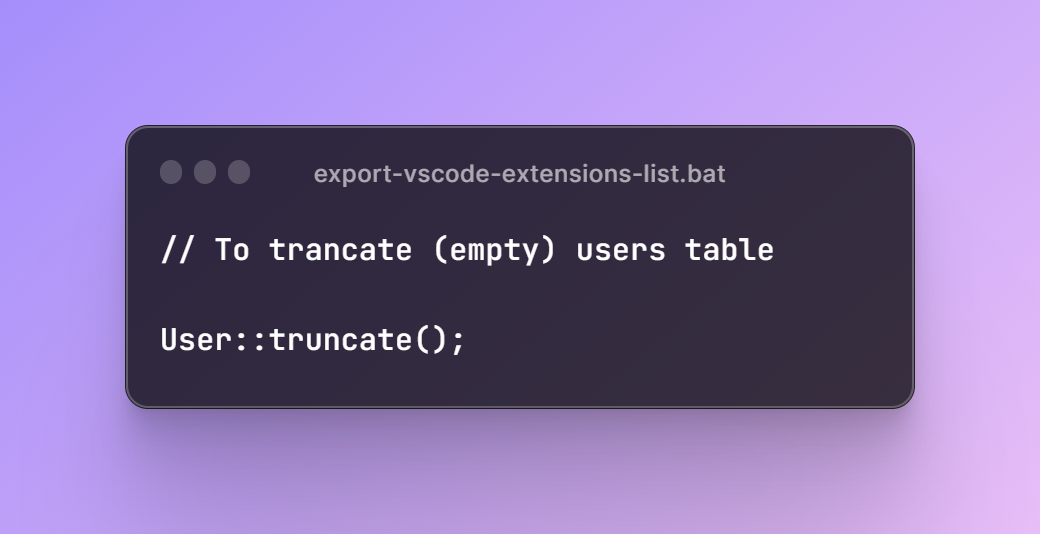
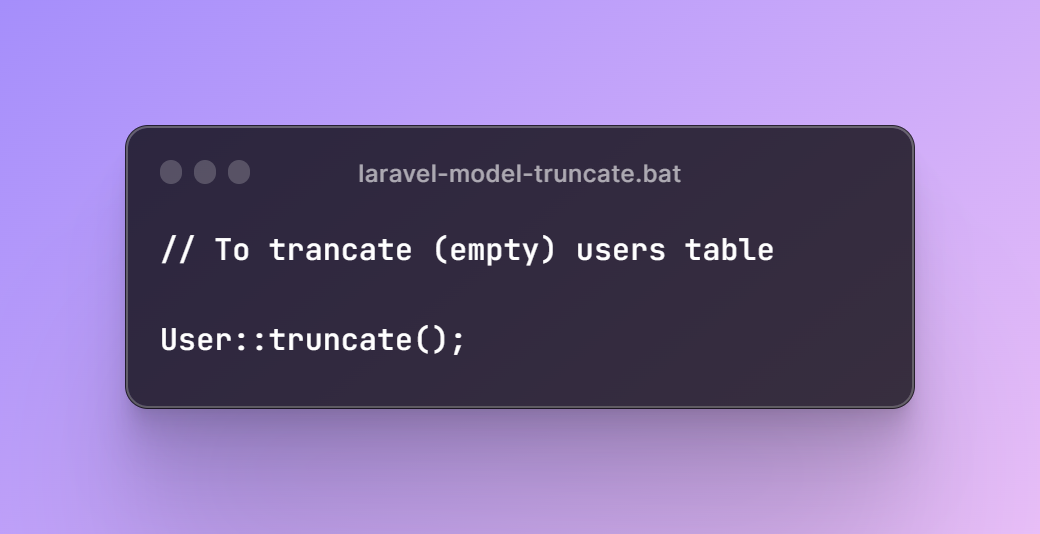
feat :art: update snippet

Changed region(s): [[0.3077, 0.2996, 0.7077, 0.3596]]

diff --git a/docs/snippets/2023-04-15-laravel-model-truncate.md b/docs/snippets/2023-04-15-laravel-model-truncate.md
@@ -25,7 +25,7 @@ head:
 
 ![An image](/snippets/2023-04-15/laravel-model-truncate.png)
 
-[ray.so](https://ray.so/#code=Ly8gVG8gdHJhbmNhdGUgKGVtcHR5KSB1c2VycyB0YWJsZQoKVXNlcjo6dHJ1bmNhdGUoKTs&darkMode=true&background=true&title=export-vscode-extensions-list.bat&language=powershell&padding=64)
+[ray.so](https://ray.so/#code=Ly8gVG8gdHJhbmNhdGUgKGVtcHR5KSB1c2VycyB0YWJsZQoKVXNlcjo6dHJ1bmNhdGUoKTs&darkMode=true&background=true&title=laravel-model-truncate.bat&language=powershell&padding=64)
 
 # Laravel Model Truncate
 
